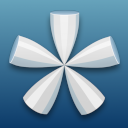
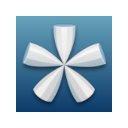
Changed how the link to SilverBullet is formatted. Changed innerHTML to textContext. Added compression to Grunt. Fixed broken image. Updated README for 0.3.1

diff --git a/Gruntfile.js b/Gruntfile.js
@@ -1,4 +1,5 @@
 module.exports = function(grunt) {
+    const version = '0.3.1';
     // Project configuration.
     grunt.initConfig({
         pkg: grunt.file.readJSON('package.json'),
@@ -10,6 +11,7 @@ module.exports = function(grunt) {
                 options: {
                     data: {
                         taskName: 'chrome',
+                        version: version,
                         manifestVersion: 3,
                         background: '"service_worker": "js/service-worker.js"',
                         permissions: '["activeTab", "scripting","storage","offscreen"]',
@@ -62,11 +64,12 @@ module.exports = function(grunt) {
                 options: {
                     data: {
                         taskName: 'firefox',
+                        version: version,
                         manifestVersion: 2,
                         action: 'browser_',
                         background: '"scripts": ["js/service-worker.js"]',
                         permissions: '["<all_urls>","activeTab","storage"]',
-                        browserSpecificSettings: '"browser_specific_settings": {"gecko": {"id": "silverbullet-clipper@burke.ext","strict_min_version": "42.0"}}'
+                        browserSpecificSettings: '"browser_specific_settings": {"gecko": {"id": "silverbullet-clipper@burke.ext","strict_min_version": "100.0"}}'
                     }
                 },
                 files: {
@@ -128,11 +131,42 @@ module.exports = function(grunt) {
                 ] 
             }
         },
+        compress: {
+            chrome: {
+                options: {
+                    archive: 'dist/chrome.zip',  // The name of the output zip file
+                    mode: 'zip'
+                },
+                files: [
+                    {
+                        expand: true,
+                        cwd: 'dist/chrome',  // The directory to zip
+                        src: ['**/*'],  // Include all files and subdirectories
+                        dest: ''  // Preserve directory structure in the zip
+                    }
+                ]
+            },
+            firefox: {
+                options: {
+                    archive: 'dist/firefox.zip',  // The name of the output zip file
+                    mode: 'zip'
+                },
+                files: [
+                    {
+                        expand: true,
+                        cwd: 'dist/firefox',  // The directory to zip
+                        src: ['**/*'],  // Include all files and subdirectories
+                        dest: ''  // Preserve directory structure in the zip
+                    }
+                ]
+            }
+        }
     });
     // Load the plugin.
     grunt.loadNpmTasks('grunt-template');
     grunt.loadNpmTasks('grunt-contrib-copy');
+    grunt.loadNpmTasks('grunt-contrib-compress');
     // Register tasks.
-    grunt.registerTask('build:chrome', ['template:chrome_manifest_json','template:chrome_popup_html','template:chrome_popup_offscreen_js','template:chrome_service_worker_js','copy:shared_files','copy:chrome_files']);
-    grunt.registerTask('build:firefox', ['template:firefox_manifest_json','template:firefox_popup_html','template:firefox_popup_offscreen_js','template:firefox_service_worker_js','copy:shared_files']);
+    grunt.registerTask('build:chrome', ['template:chrome_manifest_json','template:chrome_popup_html','template:chrome_popup_offscreen_js','template:chrome_service_worker_js','copy:shared_files','copy:chrome_files','compress:chrome']);
+    grunt.registerTask('build:firefox', ['template:firefox_manifest_json','template:firefox_popup_html','template:firefox_popup_offscreen_js','template:firefox_service_worker_js','copy:shared_files','compress:firefox']);
 };

diff --git a/dist/chrome/js/popup.js b/dist/chrome/js/popup.js
@@ -8,11 +8,15 @@ async function handleMessages(message) {
     switch (message.type) {
         case 'link':
             //Display the link to the new Quick Note
-            linkSpan.innerHTML = '<a href="' + message.url + '" target="_blank">Go to Quick Note</a>';
+            var link = document.createElement('a');
+            link.href = message.url;
+            link.textContent = 'Go to Quick Note';
+            link.target = '_blank'; // This opens the link in a new tab
+            linkSpan.appendChild(link);
             break;
         case 'api-error':
             //Display the error
-            linkSpan.innerHTML = 'Unable to send capture to SilverBullet. Please check your configuration.';
+            linkSpan.textContent = 'Unable to send capture to SilverBullet. Please check your configuration.';
             break;    
         default:
         console.warn(`Unexpected message type received: '${message.type}'.`);
@@ -35,6 +39,8 @@ document.addEventListener("DOMContentLoaded", () => {
     //Capture button event
     const captureButton = document.getElementById("capture");
     captureButton.addEventListener("click", () => {
+        const linkSpan = document.getElementById("link");
+        linkSpan.textContent = '';
         const title = document.getElementById("title").value;
         const tags = document.getElementById("tags").value;
         let data = {'title': title, 'tags': tags};

diff --git a/dist/firefox/js/popup.js b/dist/firefox/js/popup.js
@@ -8,11 +8,15 @@ async function handleMessages(message) {
     switch (message.type) {
         case 'link':
             //Display the link to the new Quick Note
-            linkSpan.innerHTML = '<a href="' + message.url + '" target="_blank">Go to Quick Note</a>';
+            var link = document.createElement('a');
+            link.href = message.url;
+            link.textContent = 'Go to Quick Note';
+            link.target = '_blank'; // This opens the link in a new tab
+            linkSpan.appendChild(link);
             break;
         case 'api-error':
             //Display the error
-            linkSpan.innerHTML = 'Unable to send capture to SilverBullet. Please check your configuration.';
+            linkSpan.textContent = 'Unable to send capture to SilverBullet. Please check your configuration.';
             break;    
         default:
         console.warn(`Unexpected message type received: '${message.type}'.`);
@@ -35,6 +39,8 @@ document.addEventListener("DOMContentLoaded", () => {
     //Capture button event
     const captureButton = document.getElementById("capture");
     captureButton.addEventListener("click", () => {
+        const linkSpan = document.getElementById("link");
+        linkSpan.textContent = '';
         const title = document.getElementById("title").value;
         const tags = document.getElementById("tags").value;
         let data = {'title': title, 'tags': tags};

diff --git a/src/js/popup.template.js b/src/js/popup.template.js
@@ -8,11 +8,15 @@ async function handleMessages(message) {
     switch (message.type) {
         case 'link':
             //Display the link to the new Quick Note
-            linkSpan.innerHTML = '<a href="' + message.url + '" target="_blank">Go to Quick Note</a>';
+            var link = document.createElement('a');
+            link.href = message.url;
+            link.textContent = 'Go to Quick Note';
+            link.target = '_blank'; // This opens the link in a new tab
+            linkSpan.appendChild(link);
             break;
         case 'api-error':
             //Display the error
-            linkSpan.innerHTML = 'Unable to send capture to SilverBullet. Please check your configuration.';
+            linkSpan.textContent = 'Unable to send capture to SilverBullet. Please check your configuration.';
             break;    
         default:
         console.warn(`Unexpected message type received: '${message.type}'.`);
@@ -35,6 +39,8 @@ document.addEventListener("DOMContentLoaded", () => {
     //Capture button event
     const captureButton = document.getElementById("capture");
     captureButton.addEventListener("click", () => {
+        const linkSpan = document.getElementById("link");
+        linkSpan.textContent = '';
         const title = document.getElementById("title").value;
         const tags = document.getElementById("tags").value;
         let data = {'title': title, 'tags': tags};

diff --git a/dist/chrome/html/popup.html b/dist/chrome/html/popup.html
@@ -92,7 +92,7 @@
         </div>
         <article id="articleCapture">
             <header><b>Capture</b></header>
-            <p>
+ 
                 <form class="pure-form pure-form-stacked">
                     <fieldset>
                         <label for="title">Title</label>
@@ -102,7 +102,7 @@
                         <span class="pure-form-message">Separate tags by space</span>
                     </fieldset>
                 </form>
-            </p>
+
             <p><span id="link"></span></p>
             <footer>
                 <button id="capture" type="submit" class="pure-button pure-button-primary">Capture</button>
@@ -111,7 +111,7 @@
         </article>
         <article id="articleConfigure" class="hidden">
             <header><b>Configure</b></header>
-            <p>
+
                 <form class="pure-form pure-form-stacked">
                     <fieldset>
                         <legend>Credentials</legend>
@@ -123,7 +123,7 @@
                         <span class="pure-form-message">The token is set in the environment variable SB_AUTH_TOKEN</span>
                     </fieldset>
                 </form>
-            </p>
+
             <footer>
                 <button id="save" type="submit" class="pure-button pure-button-primary">Save</button>
                 <button id="close" type="submit" class="pure-button button-secondary float-right">Close</button>

diff --git a/dist/firefox/html/popup.html b/dist/firefox/html/popup.html
@@ -92,7 +92,7 @@
         </div>
         <article id="articleCapture">
             <header><b>Capture</b></header>
-            <p>
+ 
                 <form class="pure-form pure-form-stacked">
                     <fieldset>
                         <label for="title">Title</label>
@@ -102,7 +102,7 @@
                         <span class="pure-form-message">Separate tags by space</span>
                     </fieldset>
                 </form>
-            </p>
+
             <p><span id="link"></span></p>
             <footer>
                 <button id="capture" type="submit" class="pure-button pure-button-primary">Capture</button>
@@ -111,7 +111,7 @@
         </article>
         <article id="articleConfigure" class="hidden">
             <header><b>Configure</b></header>
-            <p>
+
                 <form class="pure-form pure-form-stacked">
                     <fieldset>
                         <legend>Credentials</legend>
@@ -123,7 +123,7 @@
                         <span class="pure-form-message">The token is set in the environment variable SB_AUTH_TOKEN</span>
                     </fieldset>
                 </form>
-            </p>
+
             <footer>
                 <button id="save" type="submit" class="pure-button pure-button-primary">Save</button>
                 <button id="close" type="submit" class="pure-button button-secondary float-right">Close</button>

diff --git a/src/html/popup.template.html b/src/html/popup.template.html
@@ -92,7 +92,7 @@
         </div>
         <article id="articleCapture">
             <header><b>Capture</b></header>
-            <p>
+ 
                 <form class="pure-form pure-form-stacked">
                     <fieldset>
                         <label for="title">Title</label>
@@ -102,7 +102,7 @@
                         <span class="pure-form-message">Separate tags by space</span>
                     </fieldset>
                 </form>
-            </p>
+
             <p><span id="link"></span></p>
             <footer>
                 <button id="capture" type="submit" class="pure-button pure-button-primary">Capture</button>
@@ -111,7 +111,7 @@
         </article>
         <article id="articleConfigure" class="hidden">
             <header><b>Configure</b></header>
-            <p>
+
                 <form class="pure-form pure-form-stacked">
                     <fieldset>
                         <legend>Credentials</legend>
@@ -123,7 +123,7 @@
                         <span class="pure-form-message">The token is set in the environment variable SB_AUTH_TOKEN</span>
                     </fieldset>
                 </form>
-            </p>
+
             <footer>
                 <button id="save" type="submit" class="pure-button pure-button-primary">Save</button>
                 <button id="close" type="submit" class="pure-button button-secondary float-right">Close</button>

diff --git a/src/js/service-worker.template.js b/src/js/service-worker.template.js
@@ -132,7 +132,8 @@ async function hasDocument() {
 /* Send the markdown to the Silverbullet endpoint */
 function sendCaptureToEndpoint(markdown, title) {
     <%= runTime %>.storage.sync.get(["hostURL", "token"], (items) => {
-        const endpoint = items.hostURL + '/Inbox/' + encodeURIComponent(title)  + '.md';
+        const link = items.hostURL + '/Inbox/' + encodeURI(title);
+        const endpoint = link + '.md';
         const requestOptions = {
             method: 'PUT',
             headers: {
@@ -150,7 +151,7 @@ function sendCaptureToEndpoint(markdown, title) {
                 <%= runTime %>.runtime.sendMessage({
                     type: 'link',
                     target: 'popup',
-                    url: endpoint
+                    url: link
                 });
             }
         })

diff --git a/dist/firefox/js/service-worker.js b/dist/firefox/js/service-worker.js
@@ -75,7 +75,8 @@ async function captureTab(title, tags) {
 /* Send the markdown to the Silverbullet endpoint */
 function sendCaptureToEndpoint(markdown, title) {
     browser.storage.sync.get(["hostURL", "token"], (items) => {
-        const endpoint = items.hostURL + '/Inbox/' + encodeURIComponent(title)  + '.md';
+        const link = items.hostURL + '/Inbox/' + encodeURI(title);
+        const endpoint = link + '.md';
         const requestOptions = {
             method: 'PUT',
             headers: {
@@ -93,7 +94,7 @@ function sendCaptureToEndpoint(markdown, title) {
                 browser.runtime.sendMessage({
                     type: 'link',
                     target: 'popup',
-                    url: endpoint
+                    url: link
                 });
             }
         })

diff --git a/dist/chrome/js/service-worker.js b/dist/chrome/js/service-worker.js
@@ -101,7 +101,8 @@ async function hasDocument() {
 /* Send the markdown to the Silverbullet endpoint */
 function sendCaptureToEndpoint(markdown, title) {
     chrome.storage.sync.get(["hostURL", "token"], (items) => {
-        const endpoint = items.hostURL + '/Inbox/' + encodeURIComponent(title)  + '.md';
+        const link = items.hostURL + '/Inbox/' + encodeURI(title);
+        const endpoint = link + '.md';
         const requestOptions = {
             method: 'PUT',
             headers: {
@@ -119,7 +120,7 @@ function sendCaptureToEndpoint(markdown, title) {
                 chrome.runtime.sendMessage({
                     type: 'link',
                     target: 'popup',
-                    url: endpoint
+                    url: link
                 });
             }
         })

diff --git a/README.md b/README.md
@@ -70,3 +70,8 @@ SilverBullet Clipper uses the following libraries:
 - Added a user friendly error if the send to SilverBullet fails
 - Fixed a missing style on the legend element needed for dark mode
 - Added firefox version
+## 0.3.1
+- Changed link to new SilverBullet page from encodeURIComponent() to encodeURI() to make the link consistent with how SilverBullet formats links.
+- Removed '.md' from the link to the new SilverBullet page as it's redundant
+- Fixed missing image when looking at the extension in My Extensions
+- Sanatized HTML for enhanced security
